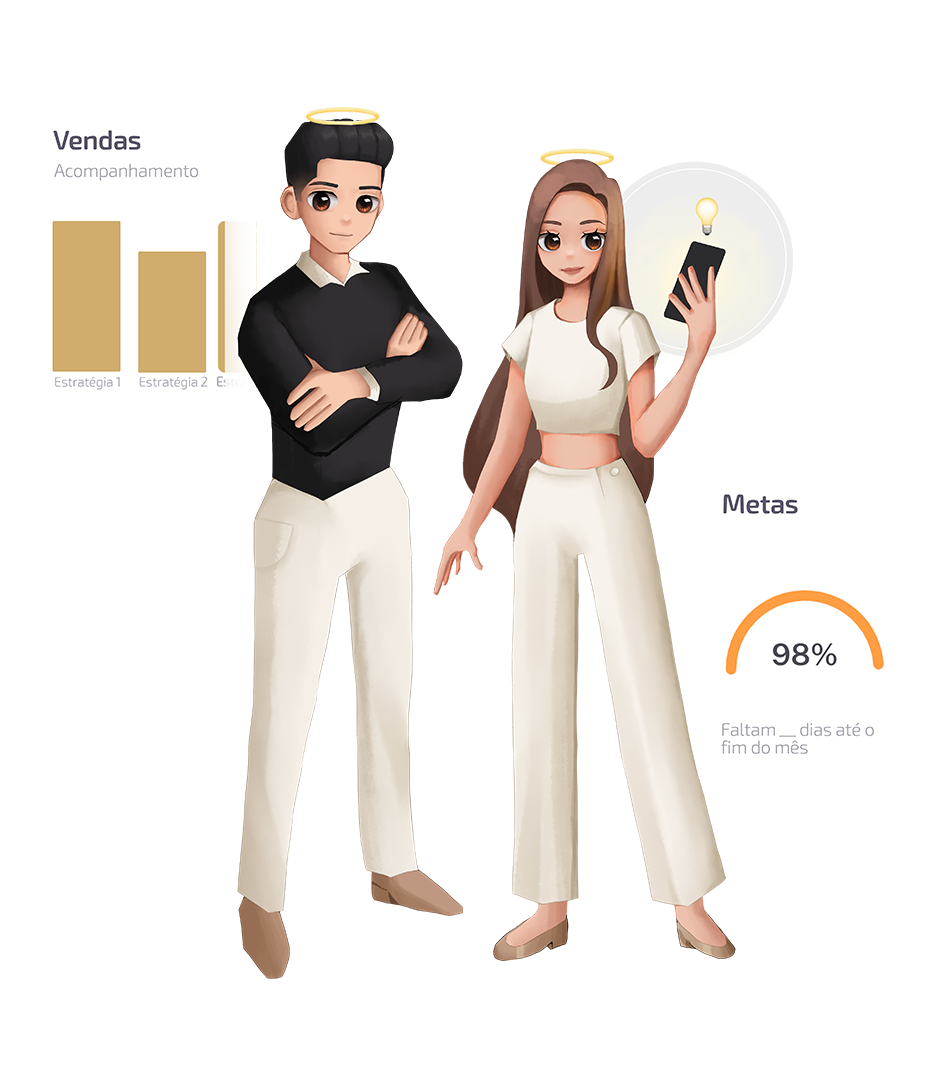
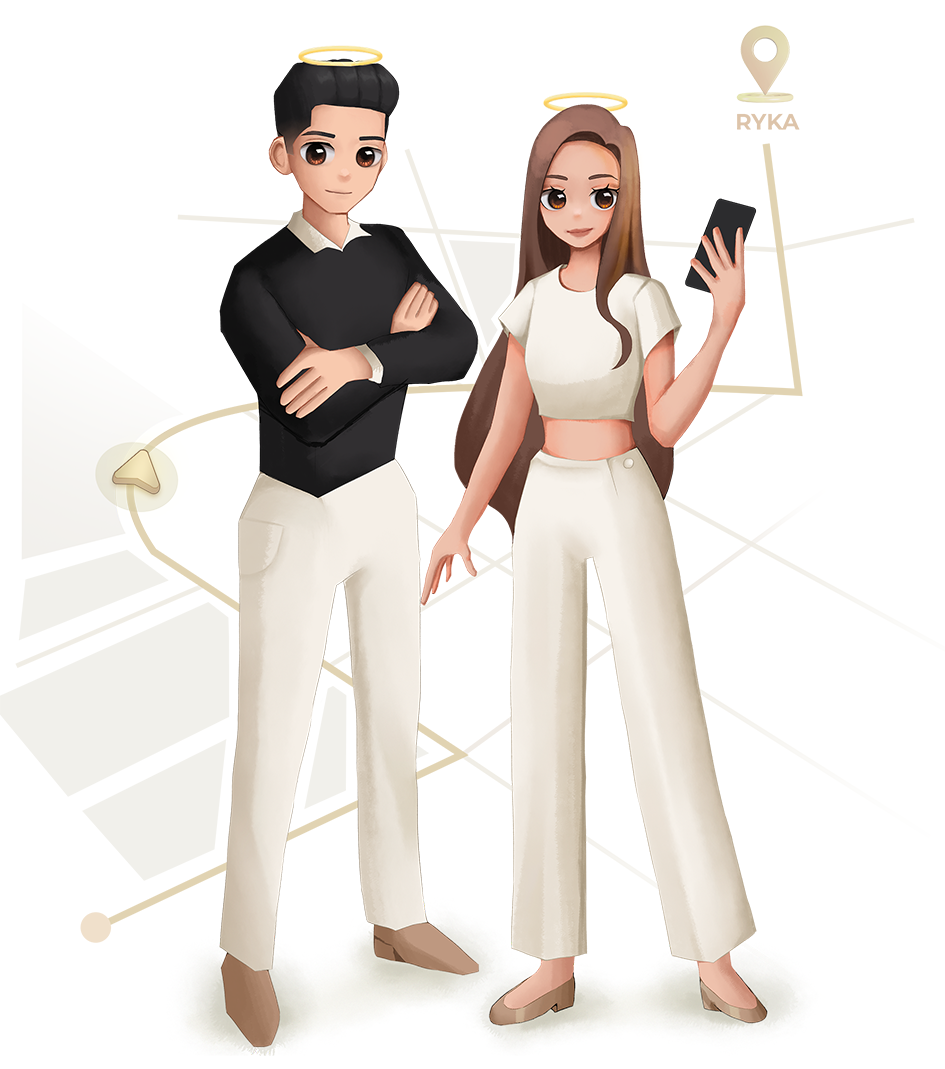
feat: change login image

diff --git a/src/pages/login/index.tsx b/src/pages/login/index.tsx
@@ -107,7 +107,7 @@ const LoginPage = () => {
           <Box sx={{ width: '100%', maxWidth: 400 }}>
             <img
               src='/images/favicon.svg'
-              width='35'
+              width='60'
               alt={themeConfig.templateName}
             />
             <Box sx={{ my: 6 }}>
@@ -119,7 +119,7 @@ const LoginPage = () => {
                   lineHeight: 1.385,
                 }}
               >
-                {`Bem-vindo(a) à ${themeConfig.templateName}! 👋🏻`}
+                {`Bem-vindo(a) ao Anjo Guia. 👼🏼 `}
               </Typography>
               <Typography sx={{ color: 'text.secondary' }}>
                 Por favor, entre em sua conta e aproveite a aventura
